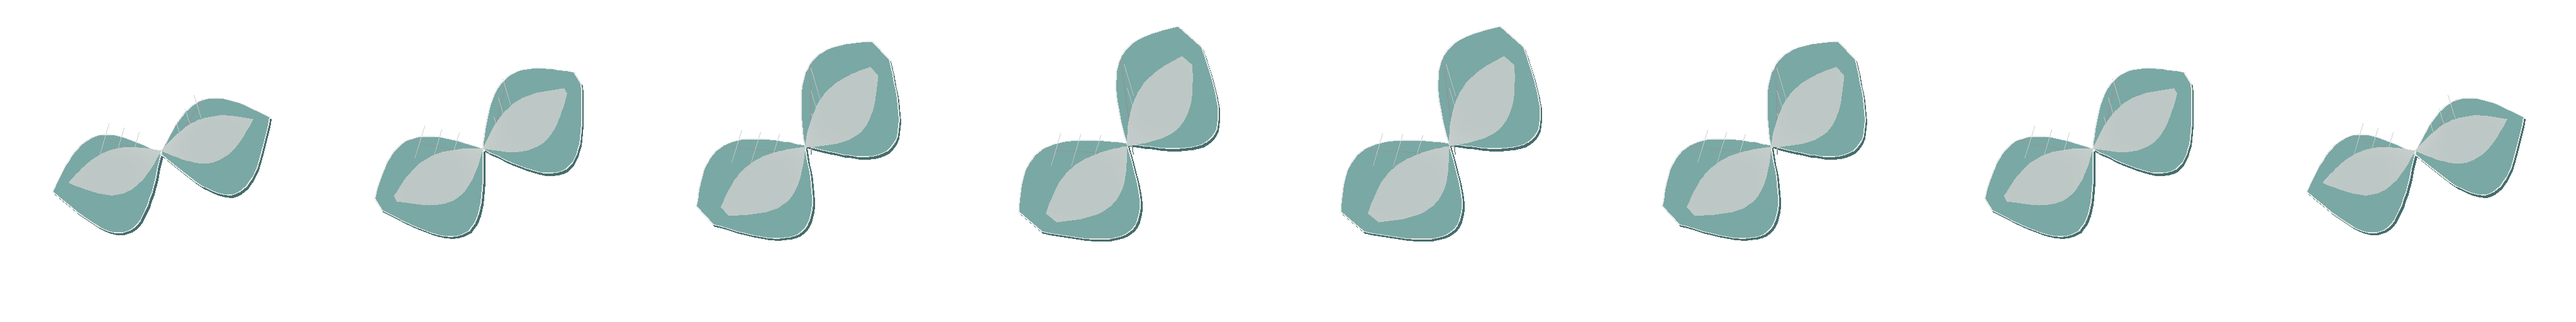
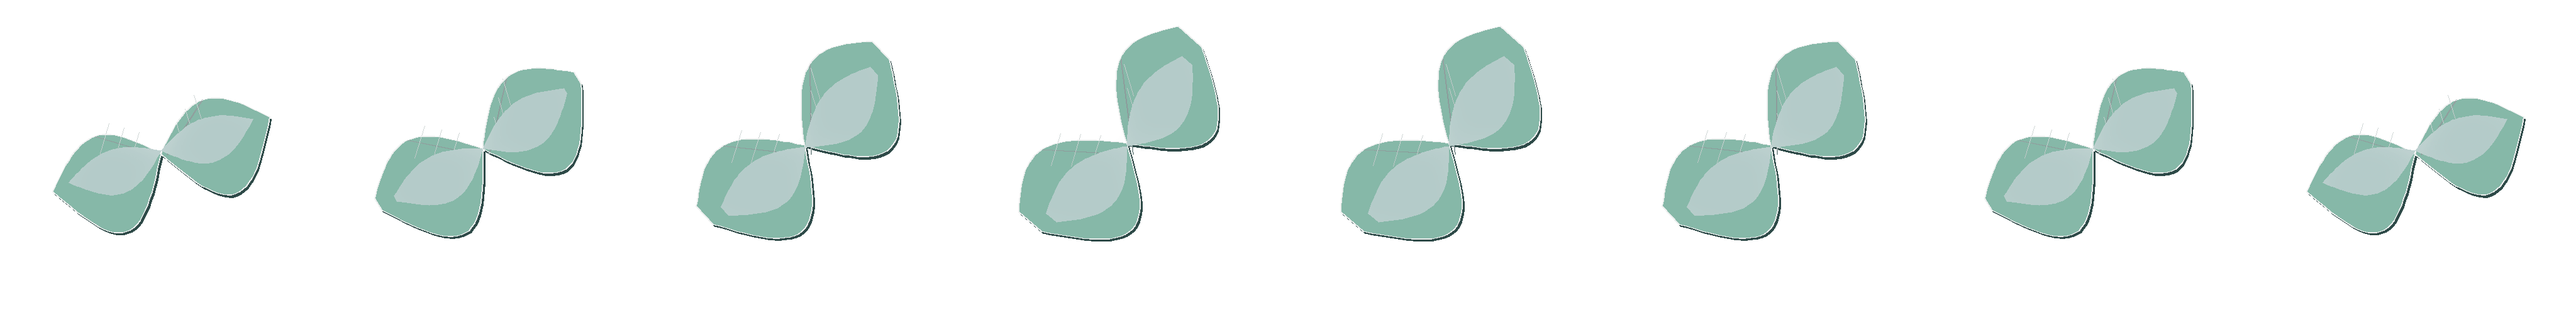
powerups03: alpha-masked wing shadows, hide cream stubs, summer teal
Wing shadow planes use the wing PNG alpha (no grey square quads).
Procedural stubs always collapsed — chase read them as cream folded wings
even when tinted #86AE58; clipkit stubs bake top green as belt-and-suspenders.
Summer open/fold/flap retinted to deep teal #5E8C8A with #86B8A8 highlight.
Shots in shots/powerups03/. Branch only — do not merge.

diff --git a/mobile/www/powerups.js b/mobile/www/powerups.js
@@ -94,9 +94,10 @@ export async function createPowerups(scene, seed, hero) {
     mesh.frustumCulled = false;
     mesh.userData.layer = 'play';
     mesh.userData.side = side;
-    // soft shadow card under the wing (#1C2438 @ ~30%)
+    // soft shadow: same wing PNG alpha as mask, tinted #1C2438 @ ~30% (no grey square quad)
     const shMat = new THREE.MeshBasicMaterial({
-      color: SHADOW, transparent: true, opacity: 0.30, depthWrite: false, fog: true, side: THREE.DoubleSide,
+      map: wingFold.spring, color: SHADOW, transparent: true, opacity: 0.30,
+      depthWrite: false, fog: true, side: THREE.DoubleSide,
     });
     const shadow = new THREE.Mesh(new THREE.PlaneGeometry(1, 1), shMat);
     shadow.position.set(0, -0.04, 0.01);
@@ -156,22 +157,29 @@ export async function createPowerups(scene, seed, hero) {
 
   function setWingMaps(season, kind, frame) {
     const L = wingL.material, R = wingR.material;
+    const sL = wingL.userData.shadow.material, sR = wingR.userData.shadow.material;
     L.opacity = 1; R.opacity = 1;
     if (kind === 'flap') {
       const tL = flapL[season], tR = flapR[season];
       const u = (frame % 8) / 8;
       tL.offset.x = u; tR.offset.x = u;
       L.map = tL; R.map = tR;
+      sL.map = tL; sR.map = tR; // share sheet so flap offset masks shadow too
     } else if (kind === 'open') {
       L.map = wingOpen[season]; R.map = wingOpen[season];
+      sL.map = wingOpen[season]; sR.map = wingOpen[season];
     } else {
       L.map = wingFold[season]; R.map = wingFold[season];
+      sL.map = wingFold[season]; sR.map = wingFold[season];
     }
     L.needsUpdate = true; R.needsUpdate = true;
+    sL.needsUpdate = true; sR.needsUpdate = true;
   }
 
   function applyStub() {
-    if (hero.setStubWings) hero.setStubWings(!!active);
+    // Always collapse procedural stubs — tinted boxes still read as cream folded wings in chase.
+    // Paper wings are the only wing read when a power-up is active.
+    if (hero.setStubWings) hero.setStubWings(true);
   }
 
   function equip(season) {

diff --git a/powerups.js b/powerups.js
@@ -94,9 +94,10 @@ export async function createPowerups(scene, seed, hero) {
     mesh.frustumCulled = false;
     mesh.userData.layer = 'play';
     mesh.userData.side = side;
-    // soft shadow card under the wing (#1C2438 @ ~30%)
+    // soft shadow: same wing PNG alpha as mask, tinted #1C2438 @ ~30% (no grey square quad)
     const shMat = new THREE.MeshBasicMaterial({
-      color: SHADOW, transparent: true, opacity: 0.30, depthWrite: false, fog: true, side: THREE.DoubleSide,
+      map: wingFold.spring, color: SHADOW, transparent: true, opacity: 0.30,
+      depthWrite: false, fog: true, side: THREE.DoubleSide,
     });
     const shadow = new THREE.Mesh(new THREE.PlaneGeometry(1, 1), shMat);
     shadow.position.set(0, -0.04, 0.01);
@@ -156,22 +157,29 @@ export async function createPowerups(scene, seed, hero) {
 
   function setWingMaps(season, kind, frame) {
     const L = wingL.material, R = wingR.material;
+    const sL = wingL.userData.shadow.material, sR = wingR.userData.shadow.material;
     L.opacity = 1; R.opacity = 1;
     if (kind === 'flap') {
       const tL = flapL[season], tR = flapR[season];
       const u = (frame % 8) / 8;
       tL.offset.x = u; tR.offset.x = u;
       L.map = tL; R.map = tR;
+      sL.map = tL; sR.map = tR; // share sheet so flap offset masks shadow too
     } else if (kind === 'open') {
       L.map = wingOpen[season]; R.map = wingOpen[season];
+      sL.map = wingOpen[season]; sR.map = wingOpen[season];
     } else {
       L.map = wingFold[season]; R.map = wingFold[season];
+      sL.map = wingFold[season]; sR.map = wingFold[season];
     }
     L.needsUpdate = true; R.needsUpdate = true;
+    sL.needsUpdate = true; sR.needsUpdate = true;
   }
 
   function applyStub() {
-    if (hero.setStubWings) hero.setStubWings(!!active);
+    // Always collapse procedural stubs — tinted boxes still read as cream folded wings in chase.
+    // Paper wings are the only wing read when a power-up is active.
+    if (hero.setStubWings) hero.setStubWings(true);
   }
 
   function equip(season) {

diff --git a/hero.js b/hero.js
@@ -97,10 +97,11 @@ export function createHero(scene, P, boxes) {
   const _wPos0 = _wPos.array.slice(_wv0 * 3, (_wv0 + _wvn) * 3);
   const _wCol0 = _wCol.array.slice(_wv0 * 3, (_wv0 + _wvn) * 3);
   const _tint = new THREE.Color(0x86AE58);
-  let _stubHidden = false;
+  let _stubHidden = null; // null so first setStubWings(false) actually applies #86AE58 (stubs bake cream belly)
   function setStubWings(hide) {
+    hide = !!hide;
     if (hide === _stubHidden) return;
-    _stubHidden = !!hide;
+    _stubHidden = hide;
     for (let i = 0; i < _wvn; i++) {
       const o = (_wv0 + i) * 3, s = i * 3;
       if (hide) { _wPos.array[o] = _wPos.array[o + 1] = _wPos.array[o + 2] = 0; }
@@ -111,7 +112,7 @@ export function createHero(scene, P, boxes) {
     }
     _wPos.needsUpdate = true; if (!hide) _wCol.needsUpdate = true;
   }
-  setStubWings(false); // default: visible, tinted lit green
+  setStubWings(true); // default: collapsed — boxes read as cream wings in chase
   const boneBy = new Map(HM.bones.map(b => [b.name, b])), _inv = new THREE.Matrix4(), _a = new THREE.Vector3(), _b = new THREE.Vector3();
   const bone = (L, i, a, b) => placeBone(THREE, boneBy.get(legName(L, i)), _a.copy(a).applyMatrix4(_inv), _b.copy(b).applyMatrix4(_inv)); // IK points (world) -> body-local
   // antennas are baked into clipkit heroMesh (1 SkinnedMesh draw) — no extra antenna props

diff --git a/mobile/www/hero.js b/mobile/www/hero.js
@@ -97,10 +97,11 @@ export function createHero(scene, P, boxes) {
   const _wPos0 = _wPos.array.slice(_wv0 * 3, (_wv0 + _wvn) * 3);
   const _wCol0 = _wCol.array.slice(_wv0 * 3, (_wv0 + _wvn) * 3);
   const _tint = new THREE.Color(0x86AE58);
-  let _stubHidden = false;
+  let _stubHidden = null; // null so first setStubWings(false) actually applies #86AE58 (stubs bake cream belly)
   function setStubWings(hide) {
+    hide = !!hide;
     if (hide === _stubHidden) return;
-    _stubHidden = !!hide;
+    _stubHidden = hide;
     for (let i = 0; i < _wvn; i++) {
       const o = (_wv0 + i) * 3, s = i * 3;
       if (hide) { _wPos.array[o] = _wPos.array[o + 1] = _wPos.array[o + 2] = 0; }
@@ -111,7 +112,7 @@ export function createHero(scene, P, boxes) {
     }
     _wPos.needsUpdate = true; if (!hide) _wCol.needsUpdate = true;
   }
-  setStubWings(false); // default: visible, tinted lit green
+  setStubWings(true); // default: collapsed — boxes read as cream wings in chase
   const boneBy = new Map(HM.bones.map(b => [b.name, b])), _inv = new THREE.Matrix4(), _a = new THREE.Vector3(), _b = new THREE.Vector3();
   const bone = (L, i, a, b) => placeBone(THREE, boneBy.get(legName(L, i)), _a.copy(a).applyMatrix4(_inv), _b.copy(b).applyMatrix4(_inv)); // IK points (world) -> body-local
   // antennas are baked into clipkit heroMesh (1 SkinnedMesh draw) — no extra antenna props

diff --git a/clipkit.js b/clipkit.js
@@ -64,7 +64,7 @@ export function buildHero(THREE) {
   // procedural wing stubs: vertex range recorded so powerups can hide/tint them (visual only)
   let wingVertStart = 0; for (const g of gs) wingVertStart += g.attributes.position.count;
   for (const s of [-1, 1]) {
-    add(new THREE.BoxGeometry(0.055, 0.016, 0.88), M([s * 0.042, 0.055, -0.30], [0.04, s * 0.03, s * 0.1]), (n) => n.y > 0.3 ? top : n.y < -0.3 ? belly : crease); // longer folded wing
+    add(new THREE.BoxGeometry(0.055, 0.016, 0.88), M([s * 0.042, 0.055, -0.30], [0.04, s * 0.03, s * 0.1]), () => top); // stubs always #86AE58 (never cream belly)
   }
   let wingVertEnd = 0; for (const g of gs) wingVertEnd += g.attributes.position.count;
   // leg segments: unit length along +Y in bone space

diff --git a/mobile/www/clipkit.js b/mobile/www/clipkit.js
@@ -64,7 +64,7 @@ export function buildHero(THREE) {
   // procedural wing stubs: vertex range recorded so powerups can hide/tint them (visual only)
   let wingVertStart = 0; for (const g of gs) wingVertStart += g.attributes.position.count;
   for (const s of [-1, 1]) {
-    add(new THREE.BoxGeometry(0.055, 0.016, 0.88), M([s * 0.042, 0.055, -0.30], [0.04, s * 0.03, s * 0.1]), (n) => n.y > 0.3 ? top : n.y < -0.3 ? belly : crease); // longer folded wing
+    add(new THREE.BoxGeometry(0.055, 0.016, 0.88), M([s * 0.042, 0.055, -0.30], [0.04, s * 0.03, s * 0.1]), () => top); // stubs always #86AE58 (never cream belly)
   }
   let wingVertEnd = 0; for (const g of gs) wingVertEnd += g.attributes.position.count;
   // leg segments: unit length along +Y in bone space
